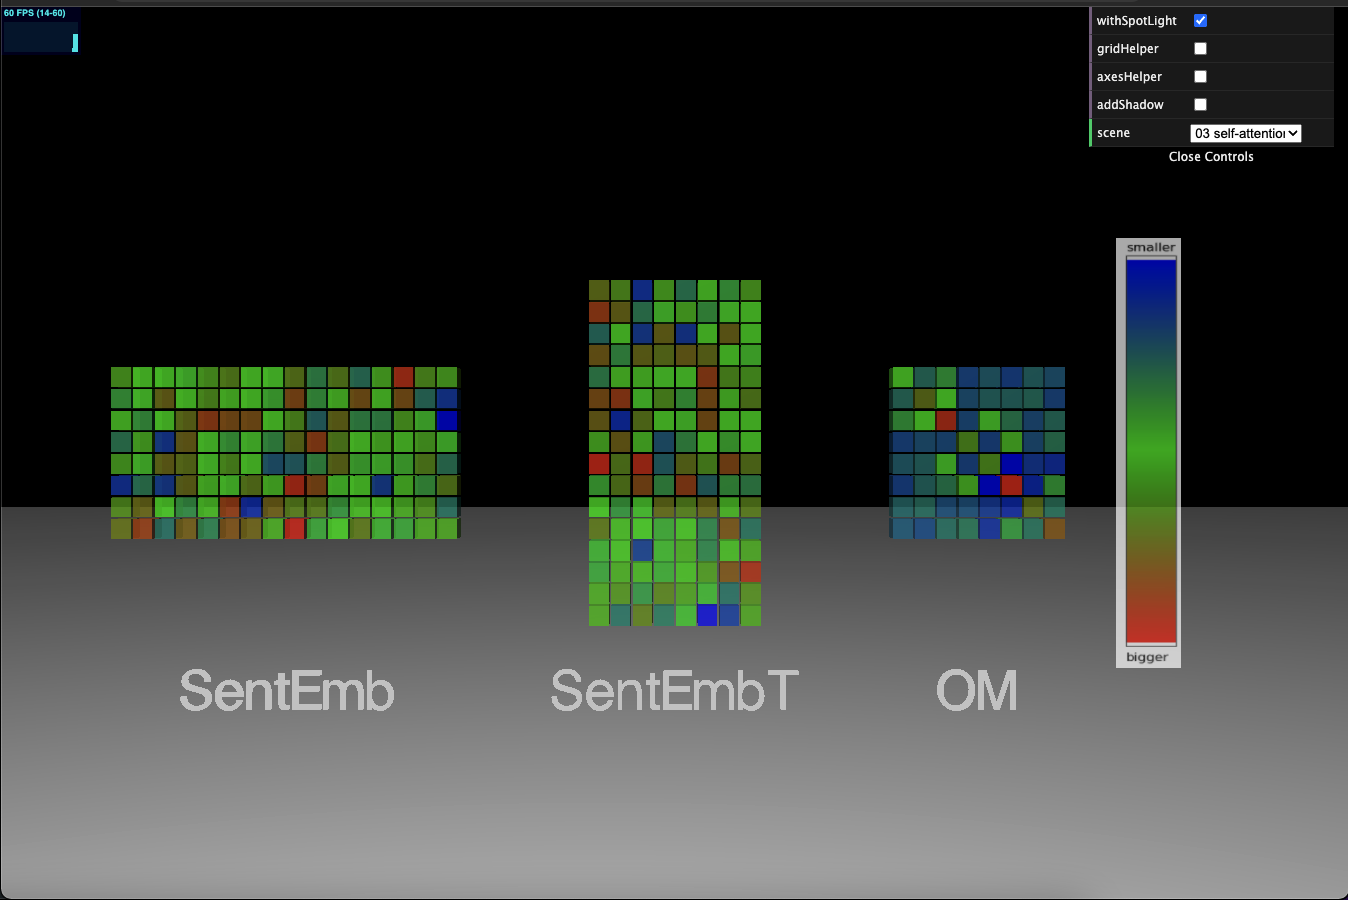
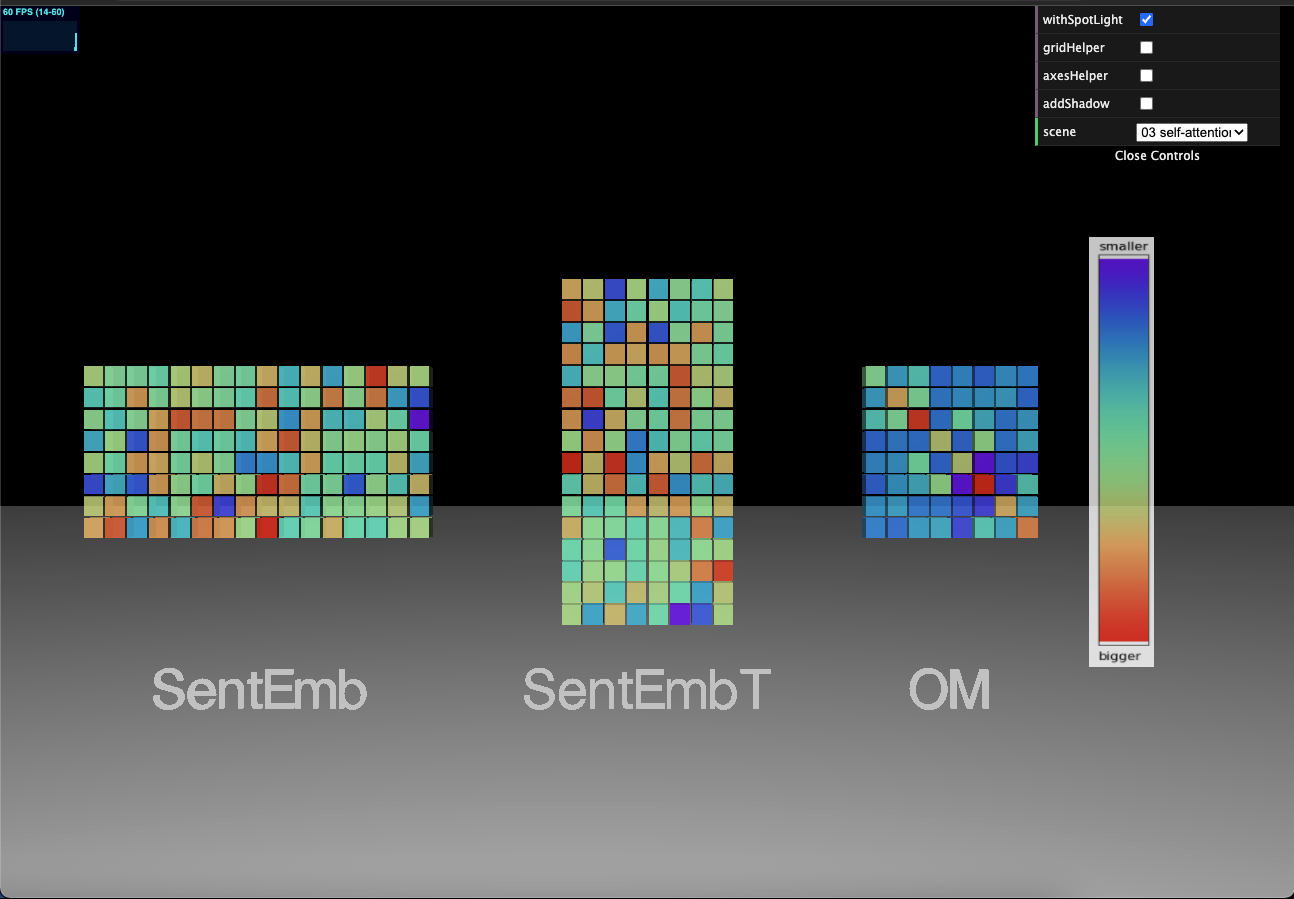
将热力图更新为🌈热力图

diff --git a/docs/README.md b/docs/README.md
@@ -8,6 +8,7 @@
 
 > #### Version Info
 - V1.0 2022-08-09 work submitted to **3Blue1Brown**'s **Summer of Math Exposition 2**
+- V1.1 2022-08-12 change the heat map gradient to 🌈colormap gradient ranging from <strong><font color="#7F00FF">purple</font></strong> to <font color="#FF0000">red</font></strong>, and update the accompanying **[3D interactive website](https://jackli777.github.io/visualizing-ai/)** correspondingly, and all the pngs, gifs in this blog.
 
 > #### Notes
 
@@ -20,7 +21,7 @@
 - The interactions supported by the **[3D interactive website](https://jackli777.github.io/visualizing-ai/)** accompanying this blog include **panning**, **zooming**, and **rotation** of the view. The content includes the computation process of the **self-attention mechanism**, the **scaled dot product attention mechanism** and the **multi-head attention mechanism**. It is divided into **21 scenes**, which can be freely switched by the reader.
 
 - The following is a brief introduction to the use and operation of the **[3D interactive website](https://jackli777.github.io/visualizing-ai/)** (the specific meaning of its content will be explained in detail later on): 
-  - You will see a blank scene when you visit the website for the first time. The upper right corner is the **control panel**, which can be **opened/closed** by yourself. The control panel includes **adding/deleting the light source**, **adding/deleting grid lines**, **adding/deleting axes**, **adding/deleting shadows**, and **scene switching drop-down menu**. The upper left corner is the **frame rate information** of the current page.
+  - You will be directed to the **1st scene** by default when you visit the website for the first time. The upper right corner is the **control panel**, which can be **opened/closed** by yourself. The control panel includes **adding/deleting the light source**, **adding/deleting grid lines**, **adding/deleting axes**, **adding/deleting shadows**, and **scene switching drop-down menu**. The upper left corner is the **frame rate information** of the current page.
 
   ![note_first_sight](pics/note_first_sight.gif)
 
@@ -103,7 +104,7 @@ tensor([0, 7, 1, 2, 5, 6, 4, 3])
 
 ![scene_1](pics/scene_1.png)
 
-- The different colors of each small cube in all scenes represent different **numerical values**. The **relative relationship** between them can be seen from the heat map gradient on the right, that is, the closer to the red end, the larger the value, and the closer to the blue end, the smaller the value.
+- The different colors of each small cube in all scenes represent different **numerical values**. The **relative relationship** between them can be seen from the 🌈colormap gradient on the right, that is to say, the closer to the <strong><font color="#FF0000">red</font></strong> end, the larger the value, and the closer to the <strong><font color="#7F00FF">purple</font></strong> end, the smaller the value.
 
 - In the **1st scene**, the different colors of the cubes represent the **index** of each word in the dictionary.
 
